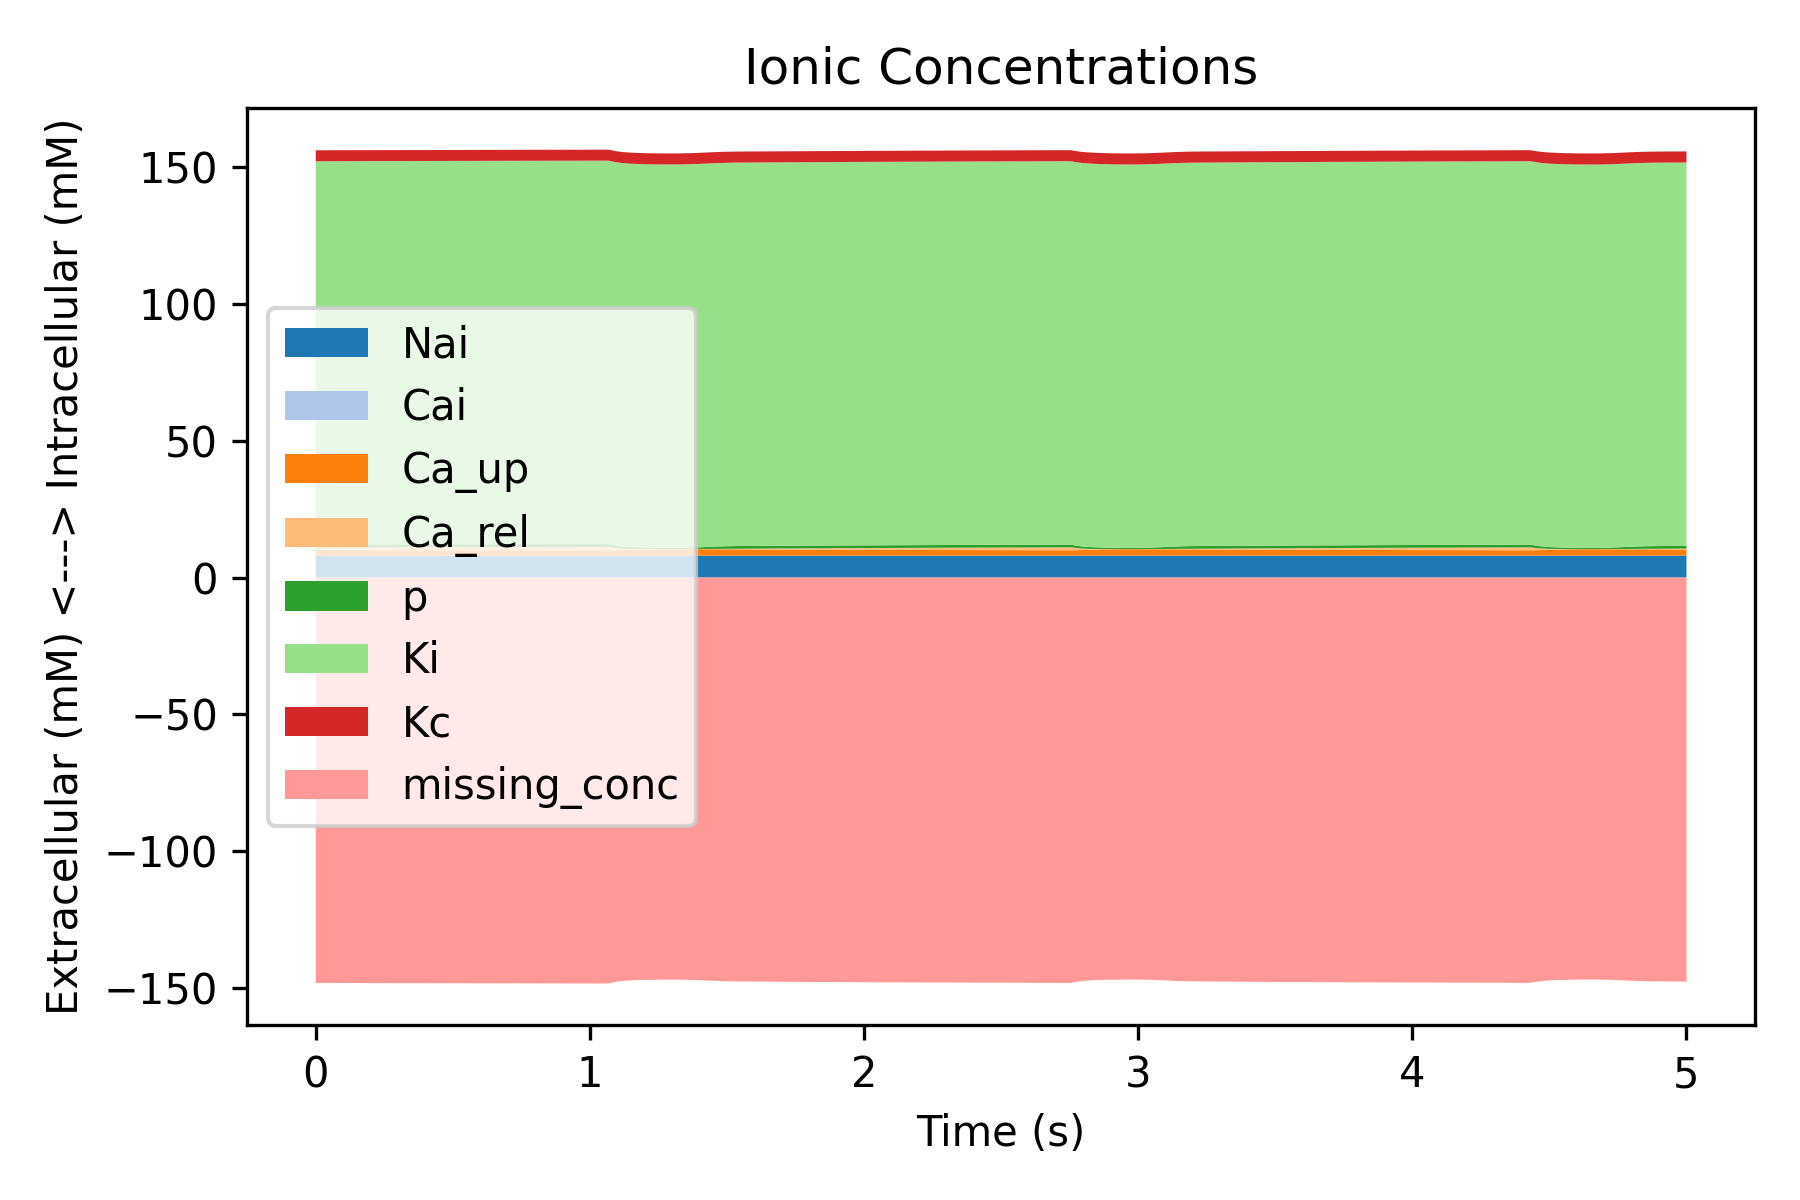
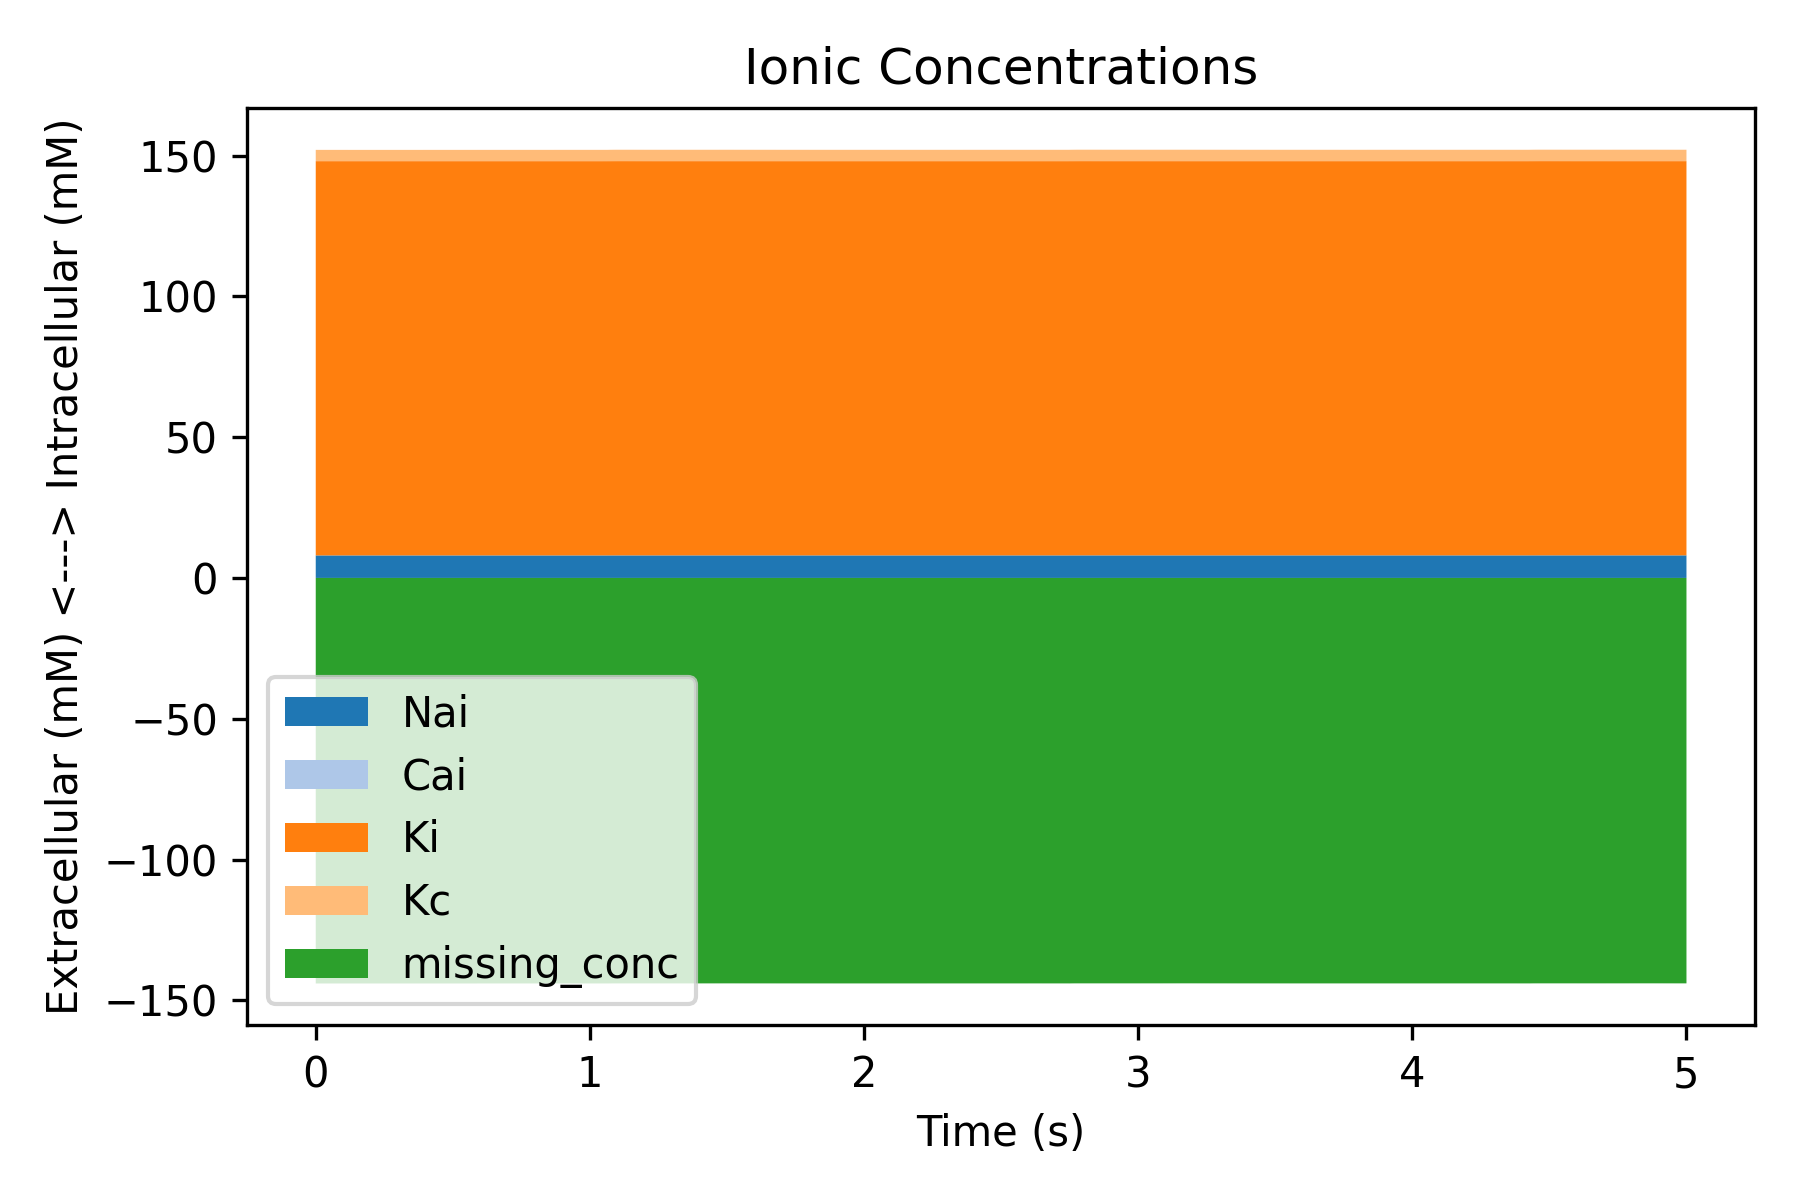
removed some concentrations
some of the concentration correspond to compartments (and therefore not caused an osmotic gradient across the cell membrane)
Ca_up is the calcium conc in s.r. uptake stores
Ca_rel is the calcium conc in release stores
p is a variable controlling transfer of calcium to release sites

diff --git a/create_osmo_model.py b/create_osmo_model.py
@@ -16,8 +16,7 @@ myokit.save(filename=f'{filename}.mmt', model=model)
 
 # List of concentrations
 intra = [f'intracellular_{a}_concentration.{b}' for a, b in
-         [('sodium', 'Nai'), ('calcium', 'Cai'), ('calcium', 'Ca_up'), ('calcium', 'Ca_rel'), ('calcium', 'p'),
-          ('potassium', 'Ki')]]
+         [('sodium', 'Nai'), ('calcium', 'Cai'), ('potassium', 'Ki')]]
 extra = ['extracellular_potassium_concentration.Kc']
 
 # Calculate initial osmolarity

diff --git a/plot_osmo.py b/plot_osmo.py
@@ -42,8 +42,7 @@ plt.show()
 
 # List of concentrations
 intra = [f'intracellular_{a}_concentration.{b}' for a, b in
-         [('sodium', 'Nai'), ('calcium', 'Cai'), ('calcium', 'Ca_up'), ('calcium', 'Ca_rel'), ('calcium', 'p'),
-          ('potassium', 'Ki')]]
+         [('sodium', 'Nai'), ('calcium', 'Cai'), ('potassium', 'Ki')]]
 extra = ['extracellular_potassium_concentration.Kc']
 
 # Concentration plot
